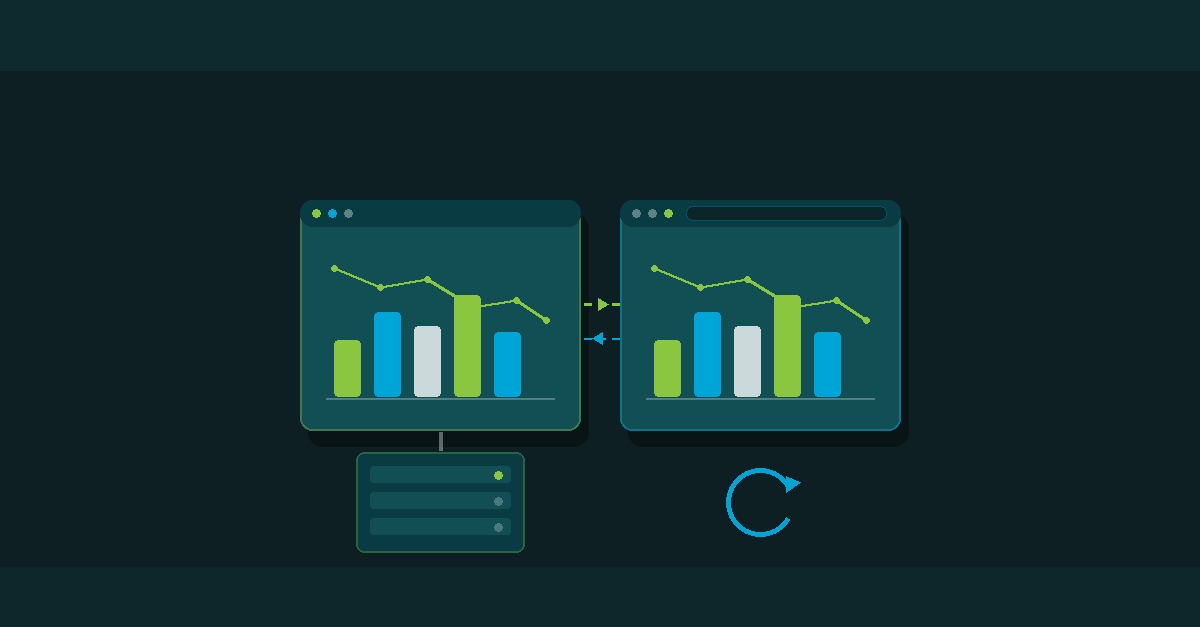
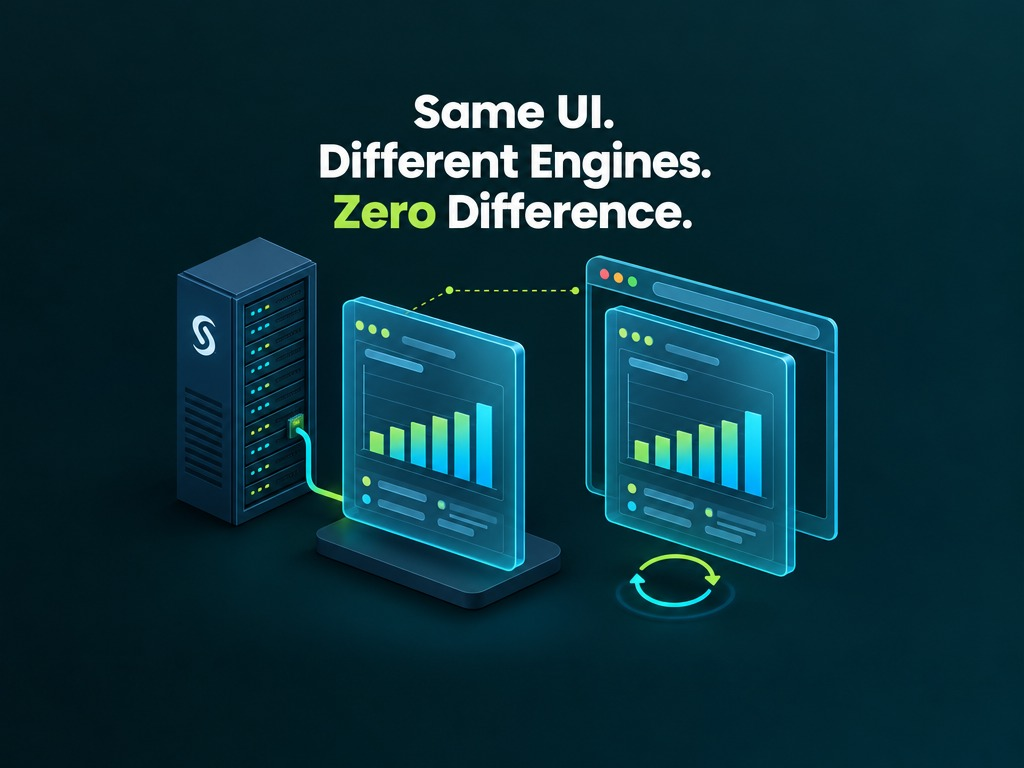
Use the generated cover for the mocked apps article

Changed region(s): [[0.1562, 0.1212, 0.8438, 0.9091]]

diff --git a/content/posts/sas-mocked-apps.md b/content/posts/sas-mocked-apps.md
@@ -217,7 +217,7 @@ The authoritative references are [sasjs build](https://cli.sasjs.io/build/) (the
 
 The pattern is worth learning even if you never ship a mocked app. Once the service contract is the interface, every part of the stack becomes testable in isolation - and the demo, the review environment, the CI suite and the production deployment are all built from the same code.
 
-<!-- Image prompt (regenerate with routstr-genimg.py):
+<!-- Image prompt (the brief the published cover was generated from):
 Generate a 16:9 landscape illustration for a B2B developer blog cover, 1200x627.
 Style: isometric flat-shaded 3D, translucent glass-like UI panels floating above a dark base, lime (#8AC640) and teal-cyan (#00A5D7) accents, soft diffused shadows, minimal and clean, dark background (#0D1F22 / #114F55), white bold headline with one lime highlight word, Poppins-like geometric sans.
 Scene: two identical glass dashboard panels side by side, the left one connected by a cable to a large server cabinet labelled with a SAS-like logo shape, the right one standing free with a small circular arrow loop beneath it, and a browser window frame around the right panel to signal that it runs in the browser. Both panels show the same bar chart, identical in every respect, to signal that the front end cannot tell them apart. A thin lime dotted line joins the two panels at the top.
